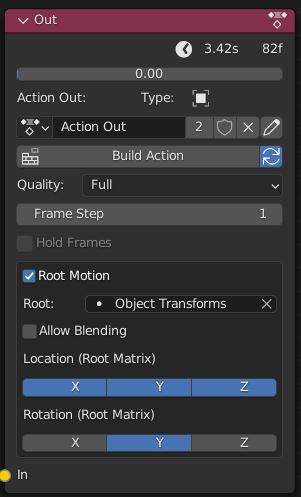
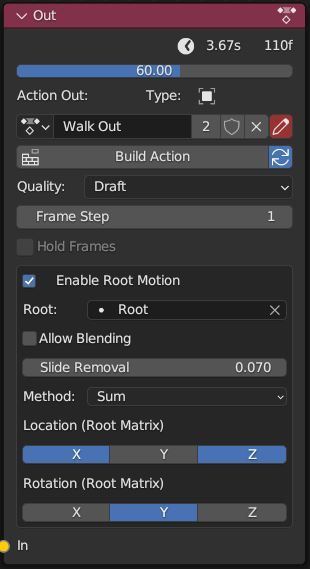
0.1.2

diff --git a/index.rst b/index.rst
@@ -4,7 +4,7 @@ Action Blocks
 
 https://twitter.com/OTrealms
 
-:Version: 0.1.0
+:Version: 0.1.2
 
 Action Blocks is a Blender add-on for constructing complex animations using real keyframes and Actions within a custom node-graph interface. 
 
@@ -15,15 +15,15 @@ Install using .zip file in Preferences->Addons->Install. There is no need to ext
 Recommended Practices and tips
 ------------------------------
 
-* **Pose Markers are cleared and generated in the Action Editor/Dope Sheet for the output Action.**
+* **Pose Markers** are cleared and generated in the Action Editor/Dope Sheet for the output Action.
 
 * **Start animations on frame 1** Starting an animation at frame zero can create duration calculation issues for node display and generation of pose markers.
 
 * **Optimize animations** Actions Nodes can become slow if Actions contain keyframes on every frame, for every channel. This be the case when the animation is baked or derived from performance capture. Use the decimator in the Animation Curves window or Decimate operator on the Action Node -> Tools, to reduce unnecessary frames. 
 
-* **Make a dedicated Root Bone** when using Root Motion if a root and includes a lot of movement. This may be the case with Hip/Root bones. Use the Transfer Keyframes Action Operator to copy selective channels to the new root. The new root channel group must first be intiliased on the action by keying the disired channels. Often only the forward axis and vertical axis of rotation needs to be transferred. 
+* **Make a dedicated Root Bone** When using Root Motion if a root and includes a lot of movement. This may be the case with Hip/Root bones. Use the Transfer Keyframes Action Operator to copy selective channels to the new root. The new root channel group must first be intiliased on the action by keying the disired channels. Often only the forward axis and vertical axis of rotation needs to be transferred. 
 
-* **Make sure rotations are using Euler rotations** when using Root Motion. Use the Convert Root To Euler operator if rotations are quaternion. This will create new roation channels and mute the old ones. Remember to also set the correct rotation mode on the Actor's root transform settings.
+* **Make sure rotations are using Euler rotations** When using Root Motion. Use the Convert Root To Euler operator if rotations are quaternion. This will create new roation channels and mute the old ones. Remember to also set the correct rotation mode on the Actor's root transform settings.
 
 * **Include Scale Keyframes.** If there are no scale frames it can result in 0,0,0 scale values and actors that appear to shrink or grow. If this happens Alt-S will reset the the scale values to 1,1,1, Then ensure actions contain scale frames. Keep in mind that trimming such as using Action Range may exclude these frames.
 
@@ -42,10 +42,14 @@ Action Out Node
 
 * **Target Action** , The Action to write keyframes onto.
 
+* **Buil Action** , manually rebuild animation output, required if  not using Auto-Refresh and when only updating source Actions without adjusting node parameters/
+
 * **Auto-Refresh** , Update the Target Action when adjusting parameters or socket links.
 
 * **Quality**
+
 * * **Full** , No reduction in data.
+
 * * **Draft** , Speed up build time by only using frame times and values, excludes handles.
 
 * **Frame Step** , Reduce frames by keeping only every 'nth' frame for faster build time, especially when using baked or motion capture data. Does not affect root group.
@@ -55,7 +59,13 @@ Action Out Node
 * **Root Motion** , Use the accumulated position and rotation of the root group for calculating motion such as walking.
 
 * * **Root**, The Root group used for motion and rotation.
+
 * * **Allow Blending**, Allow blending operation availbale on each node to affect the Root channels.
+
+* **Slide Removal**,Uses Pose Bones to contrain Root motion movement to activity of Pose Bones such as thighs(Fk) or feet controllers(IK).
+
+* **Method**, Pose Bone animation affects root translation using the method; MIN-The lowest value is used, MAX-Highest value is used to constrain, SUM-The total of values are used to constrain Root translation.
+
 * * **Location/Rotation**, The axis which will be used for root motion. Note, objects will typically use Z up in world space with the exception of cameras which have Y up. Bones transforms are relative to parents and therefore have their own rotation matrices and can differ depending on rigging convention and source of armature. For example a root bone sourced from another software may be forward facing rather than vertical when imported.  
 
 
@@ -73,20 +83,63 @@ Action Node
 
 * **Repeat** , Repeat the entire action.
 
-* **Reverse** , Reverse the action, Roo Motion not supported.
-
 * **Blend In** , Then number of frames to blend between current Action and previous frames.
+
+* **Reverse** , Reverse the action, Roo Motion not supported.
 
 * **Action Range** , The Action's frame range, this uses built-in Action settings and is not controlled per-node.
 
 * **Block Range** , The node's output frame range. Relative to block's first frame.
 
+* **Match Pose/Seek** , Match the previous Block's end frame with the most similar frame in this blocks animation, within seek distance (preformance warning: evaluates interpolated frames within seek distance).
+
 * **Root Motion**, Apply root motion to and from this Action.
 
-* **Loop Blend** , Blend between repeats to improve looping.
+* * **Rot/loc** , Flip the roation and location frames of the root bone. Works best used if all bones and controls are within the Root bones heirarchy.
+
+Action Looping
+==============
+
+.. image:: ActionNodeLoop.JPG
+
+* **Loop Blend** , Blend action between repeats, to improve looping.
 
 * * **Direction** , Only affect frames in a certain direction to match the start and end of the action.
 
+Action Operators
+==================
+.. image:: ActionNodeoperations.JPG
+
+* **Convert To Euler** , Convert the Action's bone rotations from quaternions to euler rotation keys. Creates new channels and disables the quaternion channels. Make sure that the rotation mode is also changed on the bone of the Actor.
+
+* **Decimate** , (destructive), Clear root keyframes and copy animation data from one channel group to another. Useful when creating a new root bone with selective channels. Choose between location, rotation and scale keys. The source channels will be muted.
+
+* * **Ratio** , The portion of keyframes to remove.
+
+.. image:: TransferOP.JPG
+
+* **Transfer Keyframes** ,Copy animation data from one keyframe group to another.
+
+* * **From** , The source Keyframe Group.
+* * **To** , The Target Keyframe Group.
+* * **Remove From Original** , Delete Source keyframes aftercopying. Tip: it may be a good idea to add a new first frame to the deleted group to avoid unwanted drifting.
+* * **Convert To Euler** , Ensure's that the newly copied frames are also Euler if Quaternion roations are enabled.
+* * **Location Keys** , Copy Location keyframes from the Source.
+* * **Rotation Euler Keys** , Copy Euler Rotations from Source.
+* * **Quaternion WXYZ** , Copy Quaternion keyframes from source.
+* * **Scale Keys** , Copy XYZ Scale keyframes from source.
+
+
+.. image:: ActionNodeFilter.JPG
+
+* **Filter Groups** ,create filter groups to selectively use animation channels. For example only enable upper body animation for use with mixing into full body animation.
+
+* * **Add** , Add a new filter group
+* * **Mode** , Exclude or include filtered groups, ie. Exclude + Head Bone will not use Head Bone animation fronm the node's Action.
+* * **Activate Filter**, Disable filter, can be used with Exlude mode if only using it to control Blend weight.
+* * **Loc** , Bone Location offset.
+* * **Blend Weight** , Override the bone's influence when using blending operations.
+* * **Remove** , Delete filter group
 
 
 Mix Node
@@ -94,13 +147,16 @@ Mix Node
 
 .. image:: MixNode.JPG
 
+Note: To layer animations, its best to leave channels free for input 2. For example, when combining walking (action1) with a head turn(action2), only have keyframes for the neck in action1 and only have neck keyframes in action2.
+
+
 **Modes** 
 
-* **Combine**  ,Use keyframes from both inputs, input 2 will fill any missing frames from input1. 
+* **Combine**  ,Use keyframes from both inputs, input 2 will fill any missing frames from input1. . 
 
 * **Replace** ,Excludes frames from input1 where there are frames in range for input2, only replaces available input2 channels. 
 
-* **Extend**  ,Add input2 to the end of input1
+* **Extend**  ,Add input2 to the end time of input1
 
 * **Blend-in/Out** , (Only for Replace), blend frames in and out of input2.
 
@@ -137,28 +193,7 @@ Actors provide a convenient way to select objects and edit action on the correct
 If the assigned action is of the regular animation type, a root group can be set. When there are multiple actors, each Action Blocks node group will remember the last active actor.
 Actors are used to pre-fill operators such as Edit, Decimate, Convert Root to Euler and Transfer Keyframes
 
-Action Operators
-----------------
-
-.. image:: ActionOperators.JPG
-
-Transfer Keyframes
-==================
-
-(destructive), Clear root keyframes and copy animation data from one channel group to another. Useful when creating a new root bone with selective channels. Choose between location, rotation and scale keys. The source channels will be muted.
-
-Decimate
-========
-
-(destructive), Reduce keyframe on this action (destructive) using the ratio method. 
-
-**Ratio** , The portion of keyframes to remove.
-
-Convert Root To Euler
-======================
-
-Convert root rotations from quaternions to euler rotation keys. Creates new channels and disables the quaternion channels. Make sure that the rotation mode is also changed on the root of the Actor.
-
+**Pose Bones** , Pose bones are important bones for a gait cycle for functions including Pose Matching and Slide Removal. For FK rigs, upper thigh and arm rotation is recommend. IK limbs are best associated with control bone locations.
 
 
 
